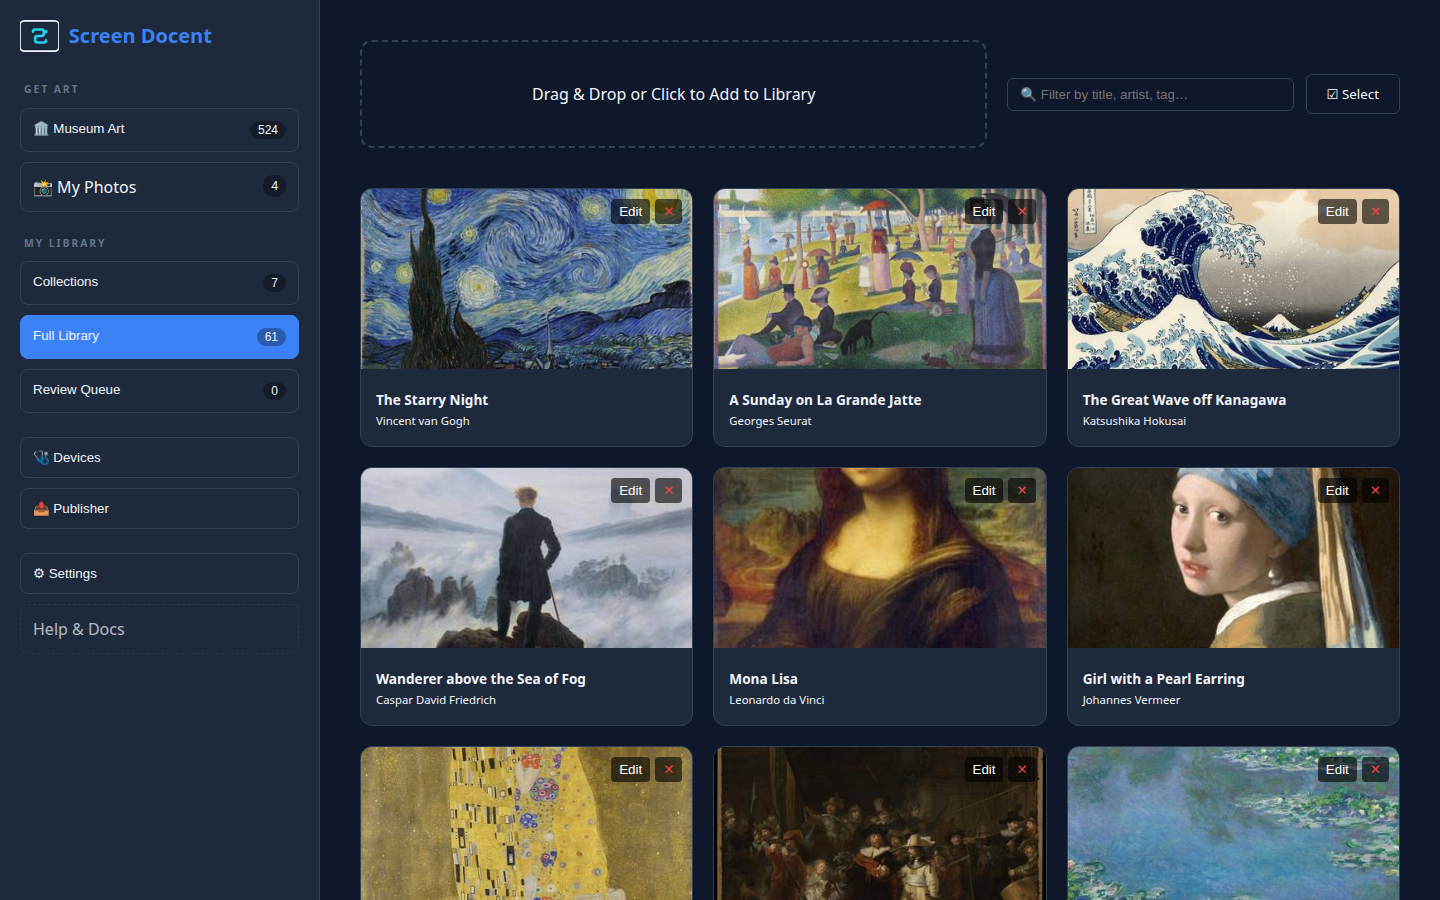
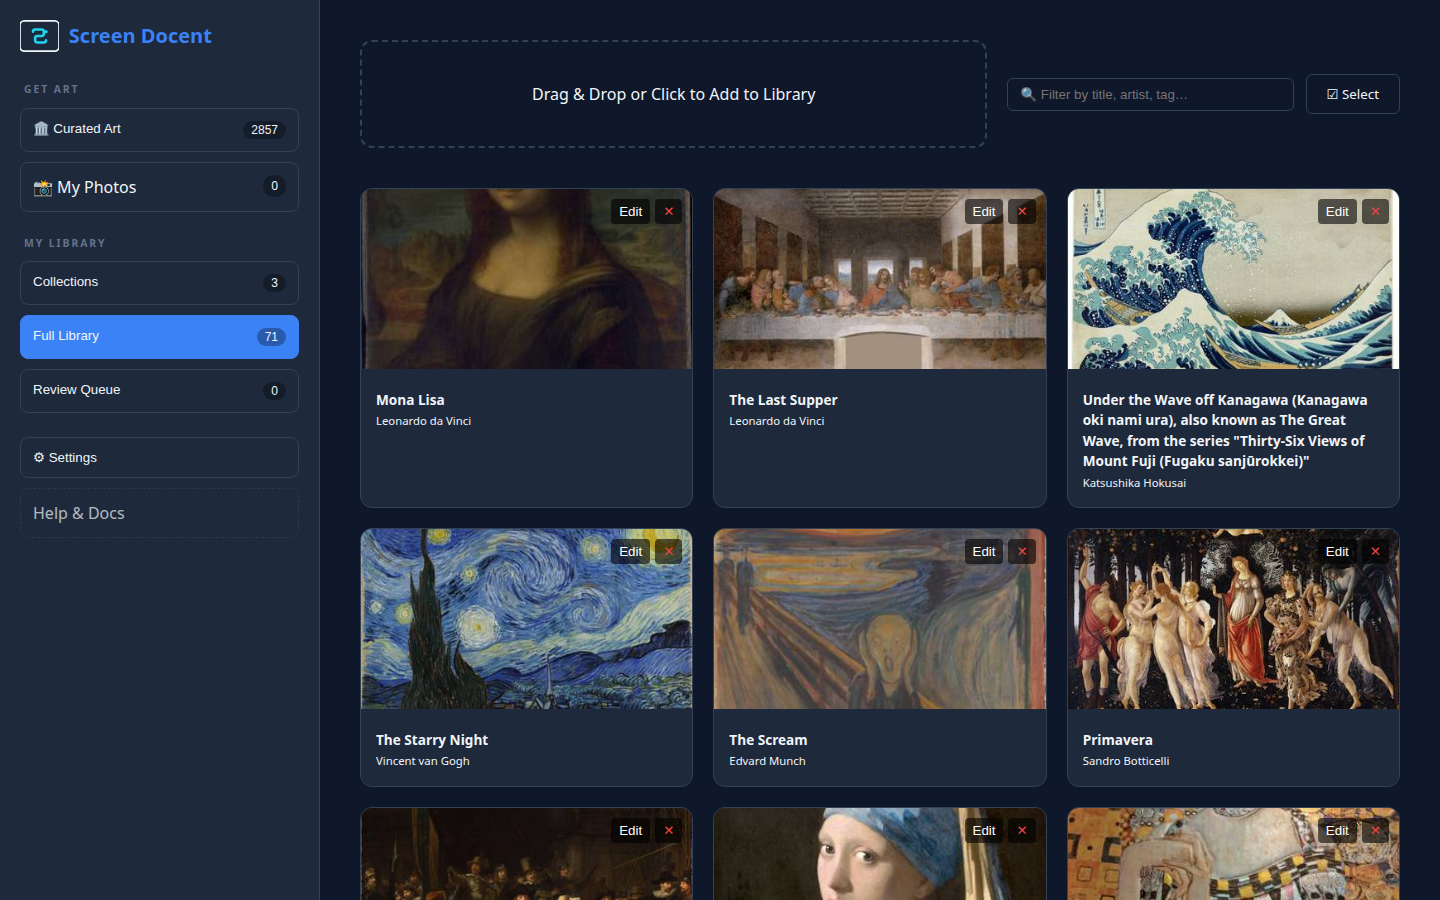
docs(curated-art): re-record GIFs + library.png at laptop viewport; add tour to Help
Per UAT: capture at a laptop viewport (1440×900 content), smoother, ~2s longer.

- catalog-add.gif: re-shot the Curated Art flow with crossfades — grid (owned
  Verified + available Official/Download) → "van gogh" search (every hit Added ✓,
  thumbnails hotlinked from the bundled catalog) → the Subscribe tile. ~8.5s.
- admin-tour.gif: re-recorded end to end (was only in the README, showed the old
  "Museum Art" nav) — Curated Art → search → Full Library → Collections, crossfaded.
- library.png: refreshed to the current UI (Curated Art nav, masterpieces grid).
- help.html: admin-tour.gif now embedded in the Overview section (previously it
  lived only in the README).

GIFs 1040×650 (was 900×562); catalog-add 1.1 MB, admin-tour 1.7 MB.

diff --git a/static/help.html b/static/help.html
@@ -135,6 +135,11 @@
                 <div class="hierarchy-step"><span>Any screen</span><strong>TV · Raspberry Pi · e-ink · phone</strong></div>
             </div>
 
+            <figure>
+                <img class="shot" src="/docs/admin-tour.gif" alt="A tour of the admin dashboard: the Curated Art grid, searching for a piece, the full library, and collections">
+                <figcaption>A quick tour of the admin: <strong>Curated Art</strong> (own whole collections), searching for a piece, your <strong>Full Library</strong>, and <strong>Collections</strong>.</figcaption>
+            </figure>
+
             <h3>Deployment models — pick what fits</h3>
             <p>It's a versatile setup. The same server supports any mix of these at once:</p>
             <div class="models">
